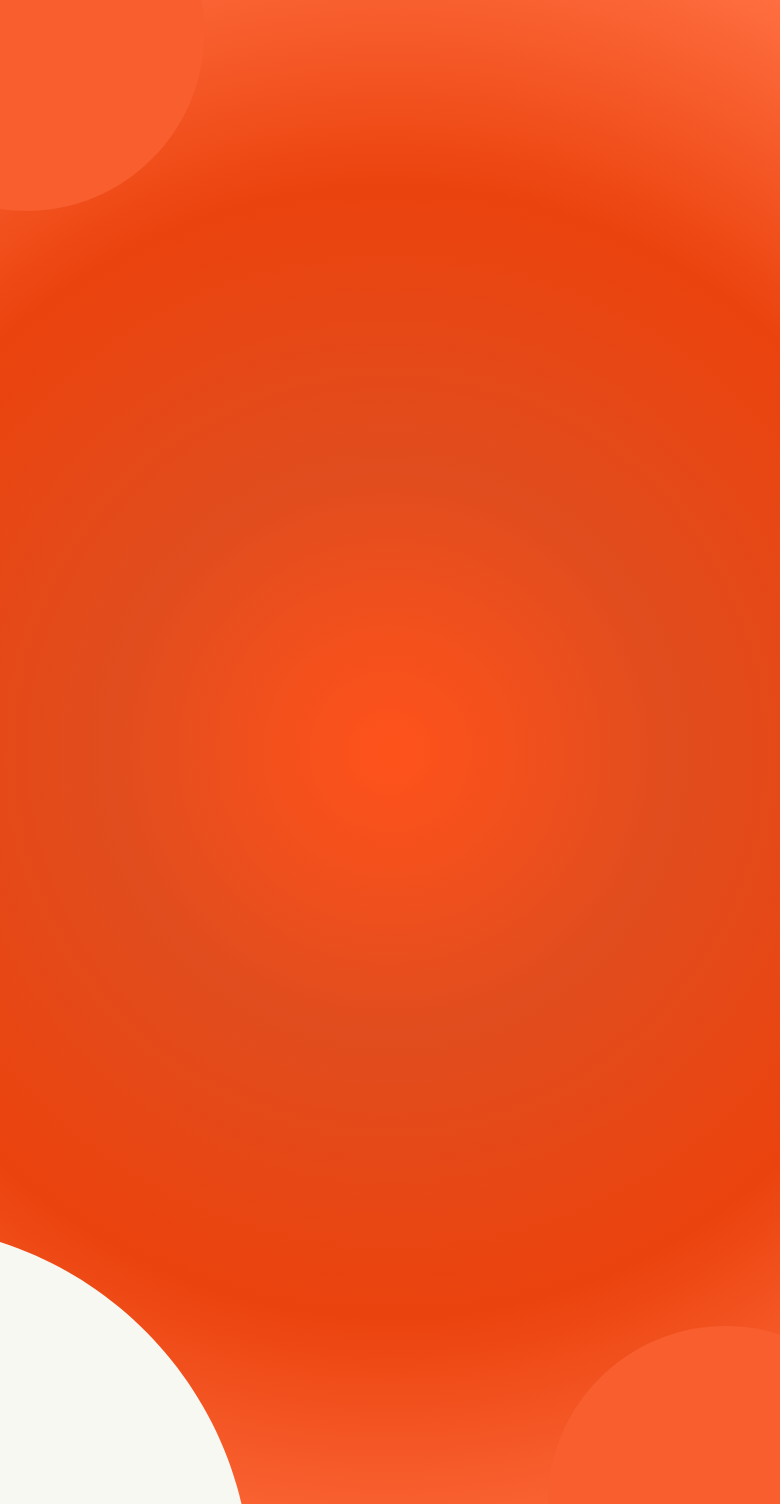
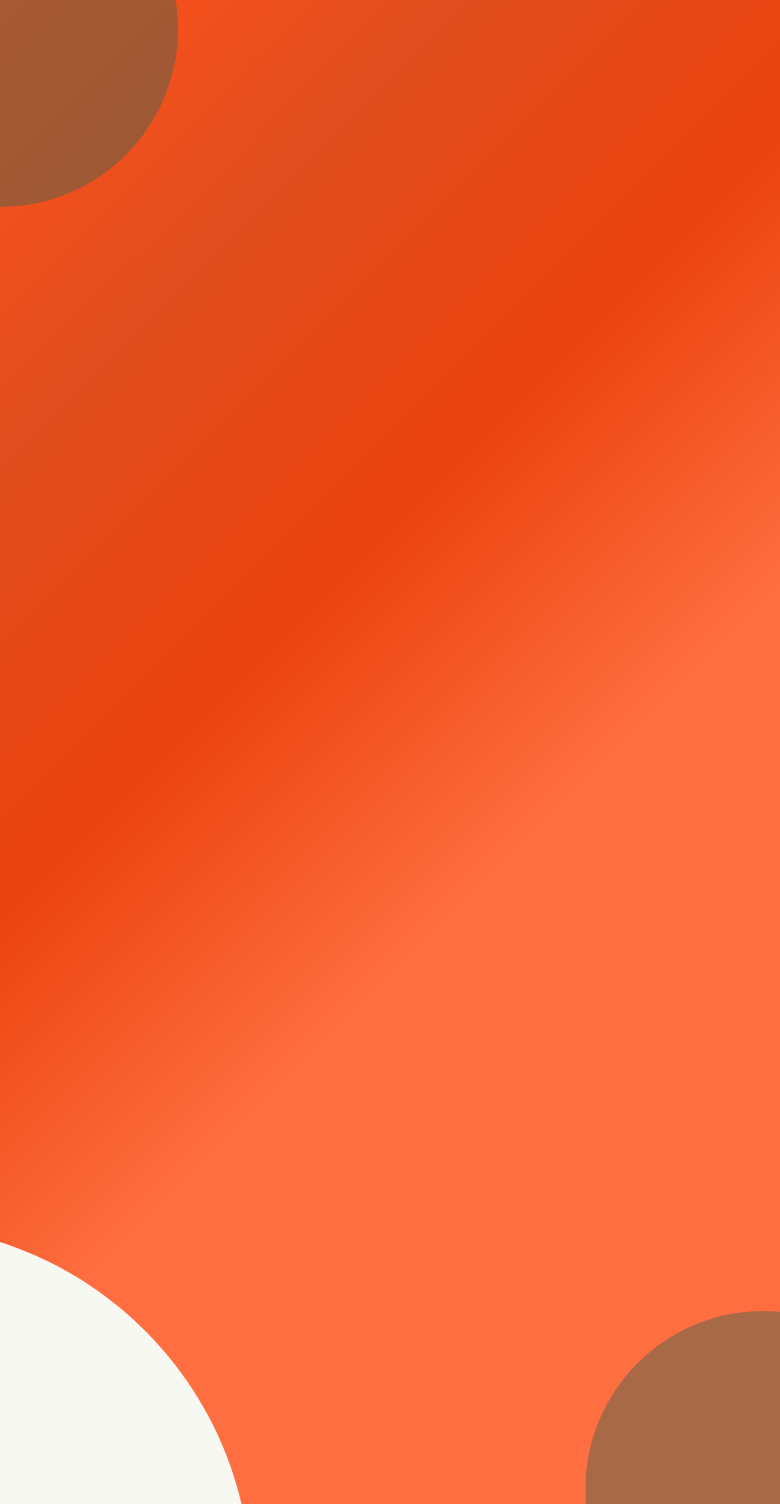
chore: update login screen

diff --git a/app/components/bp-tab-navigation/bp-tab-navigation.tsx b/app/components/bp-tab-navigation/bp-tab-navigation.tsx
@@ -34,16 +34,16 @@ const TabNavigationItem: FC<TouchableOpacityProps & { icon: ReactNode; testID: s
 };
 
 const BOTTOM_NAVBAR_ICONS = {
-  account: (isSelected: boolean) => <Ionicons name='wallet' size={28} color={isSelected ? palette.peach : palette.cream} />,
-  activity: (isSelected: boolean) => <FontAwesome6 name='people-roof' size={28} color={isSelected ? palette.peach : palette.cream} />,
-  payment: (isSelected: boolean) => <Ionicons name='logo-euro' size={28} color={isSelected ? palette.peach : palette.cream} />,
-  facturation: (isSelected: boolean) => <Ionicons name='receipt' size={28} color={isSelected ? palette.peach : palette.cream} />,
+  account: (isSelected: boolean) => <Ionicons name='wallet' size={28} color={isSelected ? palette.pine : palette.cream} />,
+  activity: (isSelected: boolean) => <FontAwesome6 name='people-roof' size={28} color={isSelected ? palette.pine : palette.cream} />,
+  payment: (isSelected: boolean) => <Ionicons name='logo-euro' size={28} color={isSelected ? palette.pine : palette.cream} />,
+  facturation: (isSelected: boolean) => <Ionicons name='receipt' size={28} color={isSelected ? palette.pine : palette.cream} />,
   home: (isSelected: boolean) => (
     <Ionicons
       name='home'
       size={28}
-      color={isSelected ? palette.white : palette.neon_orange}
-      style={{ backgroundColor: isSelected ? palette.peach : palette.cream, borderRadius: 50, padding: 15, transform: 'translateY(-12%)' }}
+      color={isSelected ? palette.cream : palette.neon_orange}
+      style={{ backgroundColor: isSelected ? palette.pine : palette.cream, borderRadius: 50, padding: 15, transform: 'translateY(-12%)' }}
     />
   ),
 } as const;

diff --git a/app/components/input-field/input-field.tsx b/app/components/input-field/input-field.tsx
@@ -27,7 +27,21 @@ interface InputFieldProps {
 }
 
 export const InputField: FC<ComponentProps<typeof TextInput> & InputFieldProps> = props => {
-  const { labelTx, error, onChange, errorMessage, width, backgroundColor, rightRender, rightText, keyboardType, endIcon, onPressEndIcon, ...others } = props;
+  const {
+    labelTx,
+    error,
+    onChange,
+    errorMessage,
+    width,
+    backgroundColor,
+    rightRender,
+    rightText,
+    keyboardType,
+    endIcon,
+    onPressEndIcon,
+    style = {},
+    ...others
+  } = props;
 
   const handlePress = () => {
     Log('here');
@@ -45,7 +59,7 @@ export const InputField: FC<ComponentProps<typeof TextInput> & InputFieldProps> 
           textColor={palette.secondaryColor}
           selectionColor={palette.secondaryColor}
           onChangeText={onChange}
-          style={TEXT_INPUT_STYLE(error, width, backgroundColor)}
+          style={[TEXT_INPUT_STYLE(error, width, backgroundColor), style]}
           theme={TEXT_INPUT_THEME}
           right={rightRender && <TextInput.Affix text={rightText} textStyle={RIGHT_TEXT} />}
           testID={`${others.name}TextInput`}

diff --git a/app/components/bp-input/bp-password-input.tsx b/app/components/bp-input/bp-password-input.tsx
@@ -1,7 +1,7 @@
 import React, { FC, useState } from 'react';
 import IonIcon from 'react-native-vector-icons/Ionicons';
 
-import { color } from '../../theme';
+import { palette } from '../../theme/palette';
 import { BpInput, BpInputProps } from './bp-input';
 
 export const BpPasswordInput: FC<BpInputProps> = props => {
@@ -14,7 +14,7 @@ export const BpPasswordInput: FC<BpInputProps> = props => {
     <BpInput
       {...props}
       secureTextEntry={!isVisible}
-      endIcon={<IonIcon testID='togglePasswordVisibility' name={isVisible ? 'eye-off-outline' : 'eye-sharp'} size={26} color={color.palette.neon_orange} />}
+      endIcon={<IonIcon testID='togglePasswordVisibility' name={isVisible ? 'eye-off-outline' : 'eye-sharp'} size={26} color={palette.pine} />}
       onPressEndIcon={toggleView}
     />
   );

diff --git a/app/screens/welcome/welcome-screen.tsx b/app/screens/welcome/welcome-screen.tsx
@@ -109,8 +109,8 @@ export const WelcomeScreen: FC<DrawerScreenProps<NavigatorParamList, 'oauth'>> =
         <View style={styles.form}>
           <View style={styles.field}>
             <FormProvider {...form}>
-              <BpInput name='email' labelTx='welcomeScreen.email' testID='emailInput' />
-              <BpPasswordInput name='password' labelTx='welcomeScreen.password' testID='passwordInput' />
+              <BpInput textColor={palette.pine} name='email' labelTx='welcomeScreen.email' testID='emailInput' />
+              <BpPasswordInput textColor={palette.pine} name='password' labelTx='welcomeScreen.password' testID='passwordInput' />
             </FormProvider>
           </View>
           <View style={styles.forgotPassword}>

diff --git a/app/screens/annotator-edition/annotator-edition-screen.tsx b/app/screens/annotator-edition/annotator-edition-screen.tsx
@@ -129,7 +129,7 @@ export const AnnotatorEditionScreen: FC<DrawerScreenProps<NavigatorParamList, 'a
               <Text style={style.annotationListItemLabel} text="Source de l'image:" />
               <Text style={style.annotationListItemTitle} text={getLayerTitle(areaPictureDetails.actualLayer)} />
             </View>
-            <BpAccordion title='Annotations' defaultExpanded>
+            <BpAccordion style={{ backgroundColor: palette.pine }} title='Annotations' defaultExpanded>
               {annotations.map(({ labelName, labelType, id: annotationId }, index) => (
                 <View style={style.annotationListContainer} key={annotationId}>
                   <View style={style.polygonRefContainer}>

diff --git a/app/screens/welcome/utils/styles.ts b/app/screens/welcome/utils/styles.ts
@@ -18,7 +18,6 @@ export const styles = StyleSheet.create({
     marginBottom: spacing[8],
   },
   form: {
-    marginTop: '5%',
     padding: 5,
     borderRadius: 10,
     shadowColor: '#000',
@@ -75,7 +74,7 @@ export const styles = StyleSheet.create({
     color: 'red',
   },
   textButton: {
-    color: color.palette.neon_orange,
+    color: color.palette.cream,
     fontFamily: 'Geometria-Bold',
     marginRight: spacing[2],
   },
@@ -88,7 +87,7 @@ export const styles = StyleSheet.create({
   button: {
     borderRadius: 50,
     paddingVertical: spacing[3],
-    backgroundColor: palette.white,
+    backgroundColor: palette.pine,
     display: 'flex',
     flexDirection: 'row',
     marginTop: spacing[4],

diff --git a/app/screens/annotator-edition/components/annotation-next-menu.tsx b/app/screens/annotator-edition/components/annotation-next-menu.tsx
@@ -75,7 +75,7 @@ export const AnnotationNextMenu: FC<AnnotationMenuProps> = ({
           style={{ marginVertical: 5 }}
           onPress={handleExport}
         >
-          Exporter entant que PDF
+          Exporter en tant que PDF
         </Button>
         <Button
           loading={isLoading || isAreaPictureLoading}
@@ -93,7 +93,7 @@ export const AnnotationNextMenu: FC<AnnotationMenuProps> = ({
           style={{ marginVertical: 5 }}
           onPress={saveAnnotation}
         >
-          Enregistrer entant que brouillon
+          Enregistrer en tant que brouillon
         </Button>
       </View>
     </ScrollView>

diff --git a/app/screens/annotator-edition/components/annotation-container.tsx b/app/screens/annotator-edition/components/annotation-container.tsx
@@ -29,7 +29,7 @@ interface MuiIconButtonProps {
 
 const MuiIconButton: FC<MuiIconButtonProps> = ({ name, onPress, disabled = false }) => {
   const icon = () => <MuiIcon color='white' name={name} size={20} />;
-  return <IconButton containerColor={disabled ? palette.lightGrey : palette.light_neon_orange} disabled={disabled} onPress={onPress} icon={icon} />;
+  return <IconButton containerColor={disabled ? palette.lightGrey : palette.pine} disabled={disabled} onPress={onPress} icon={icon} />;
 };
 
 export const AnnotationContainer: FC<AnnotationContainerProps> = ({

diff --git a/app/components/bp-input/bp-input.tsx b/app/components/bp-input/bp-input.tsx
@@ -28,7 +28,7 @@ export const BpInput: FC<BpInputProps> = ({ name, ...props }) => {
         name={name}
         defaultValue=''
         render={({ field: { ref: _ref, ...field } }) => (
-          <InputField {...field} {...props} name={name} error={!!error} errorMessage={errorMessage} backgroundColor={palette.white} />
+          <InputField {...field} {...props} name={name} error={!!error} errorMessage={errorMessage} backgroundColor={palette.cream} />
         )}
       />
     </View>

diff --git a/app/components/bp-input/style.ts b/app/components/bp-input/style.ts
@@ -27,7 +27,7 @@ export const bpInputSelectStyle = StyleSheet.create({
     borderRadius: 5,
   },
   buttonError: {
-    borderColor: color.error,
+    borderColor: color.palette.pine,
     borderStyle: 'solid',
     borderWidth: 1,
   },
@@ -37,7 +37,7 @@ export const bpInputSelectStyle = StyleSheet.create({
   icon: {
     fontSize: 28,
     marginRight: 8,
-    color: palette.neon_orange,
+    color: palette.pine,
   },
   buttonSelectedItem: {
     color: palette.neon_orange,

diff --git a/app/screens/home/home-screen.tsx b/app/screens/home/home-screen.tsx
@@ -203,7 +203,7 @@ export const HomeScreen: FC<DrawerScreenProps<TabNavigatorParamList, 'home'>> = 
         </View>
         <BpTabNavigationSpace />
       </ScrollView>
-      <BpButton style={{ position: 'absolute', bottom: 240, right: 10 }} onPress={createProspect}>
+      <BpButton style={{ backgroundColor: palette.pine, position: 'absolute', bottom: 240, right: 10 }} onPress={createProspect}>
         Analyser la toiture d'un prospect/client
       </BpButton>
     </View>

diff --git a/app/screens/prospect/prospect-screen.tsx b/app/screens/prospect/prospect-screen.tsx
@@ -36,7 +36,7 @@ export const ProspectScreen: FC<DrawerScreenProps<TabNavigatorParamList, 'prospe
 
   const getActiveClassName = useCallback(
     (activeStatus: any): object => {
-      return status === activeStatus ? { borderBottomWidth: 2, borderColor: '#9C255A' } : {};
+      return status === activeStatus ? { borderBottomWidth: 2, borderColor: palette.secondaryColor } : {};
     },
     [status]
   );
